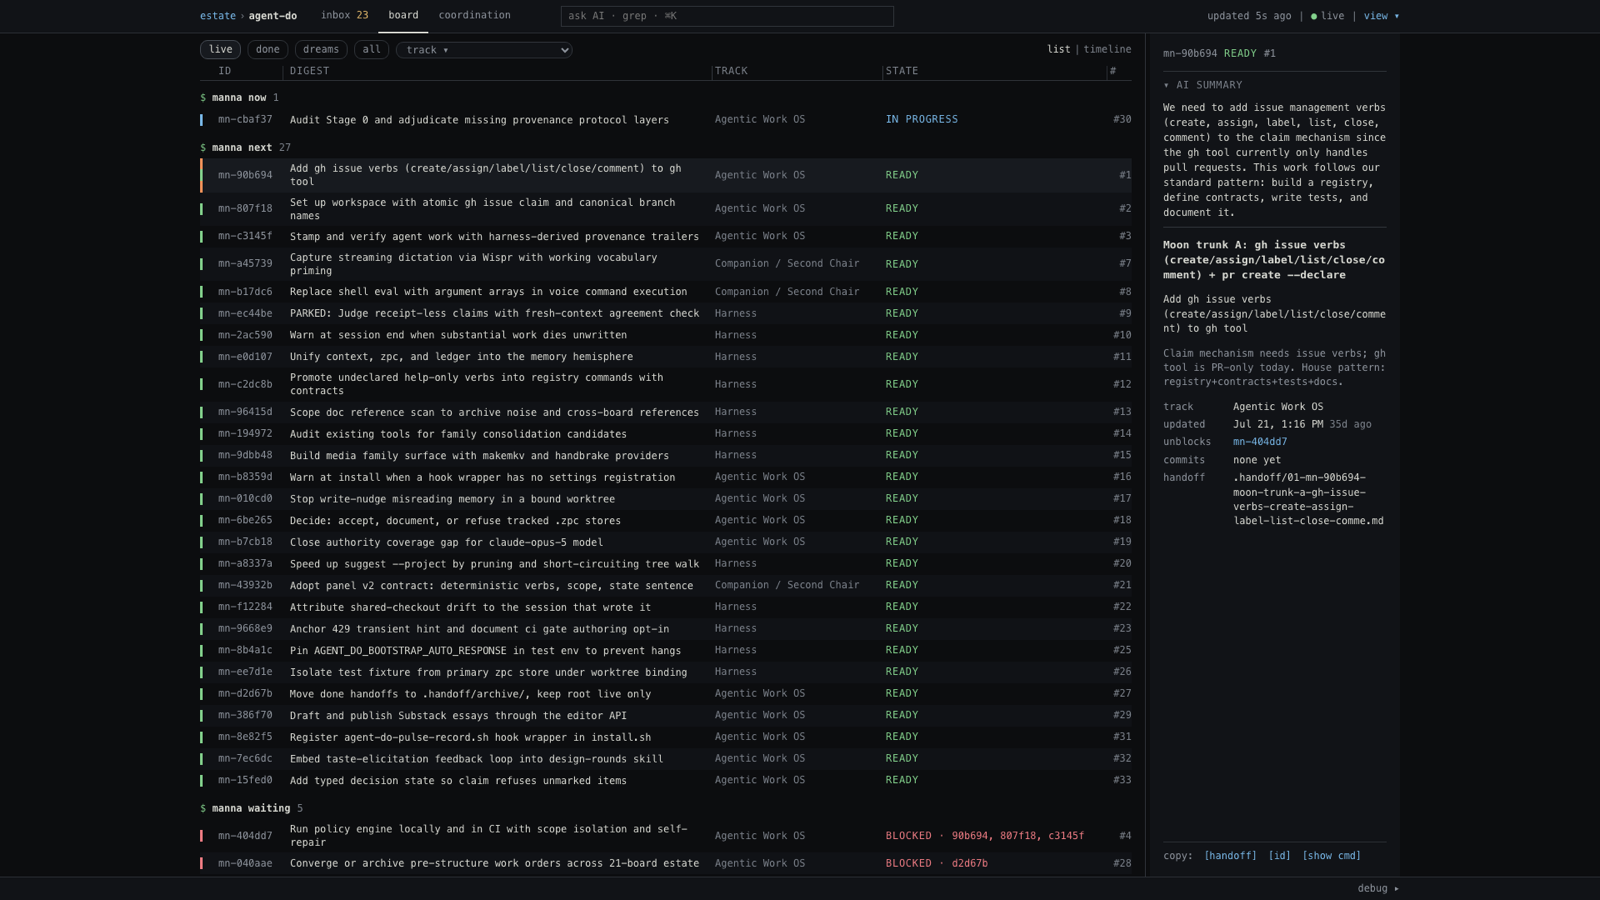
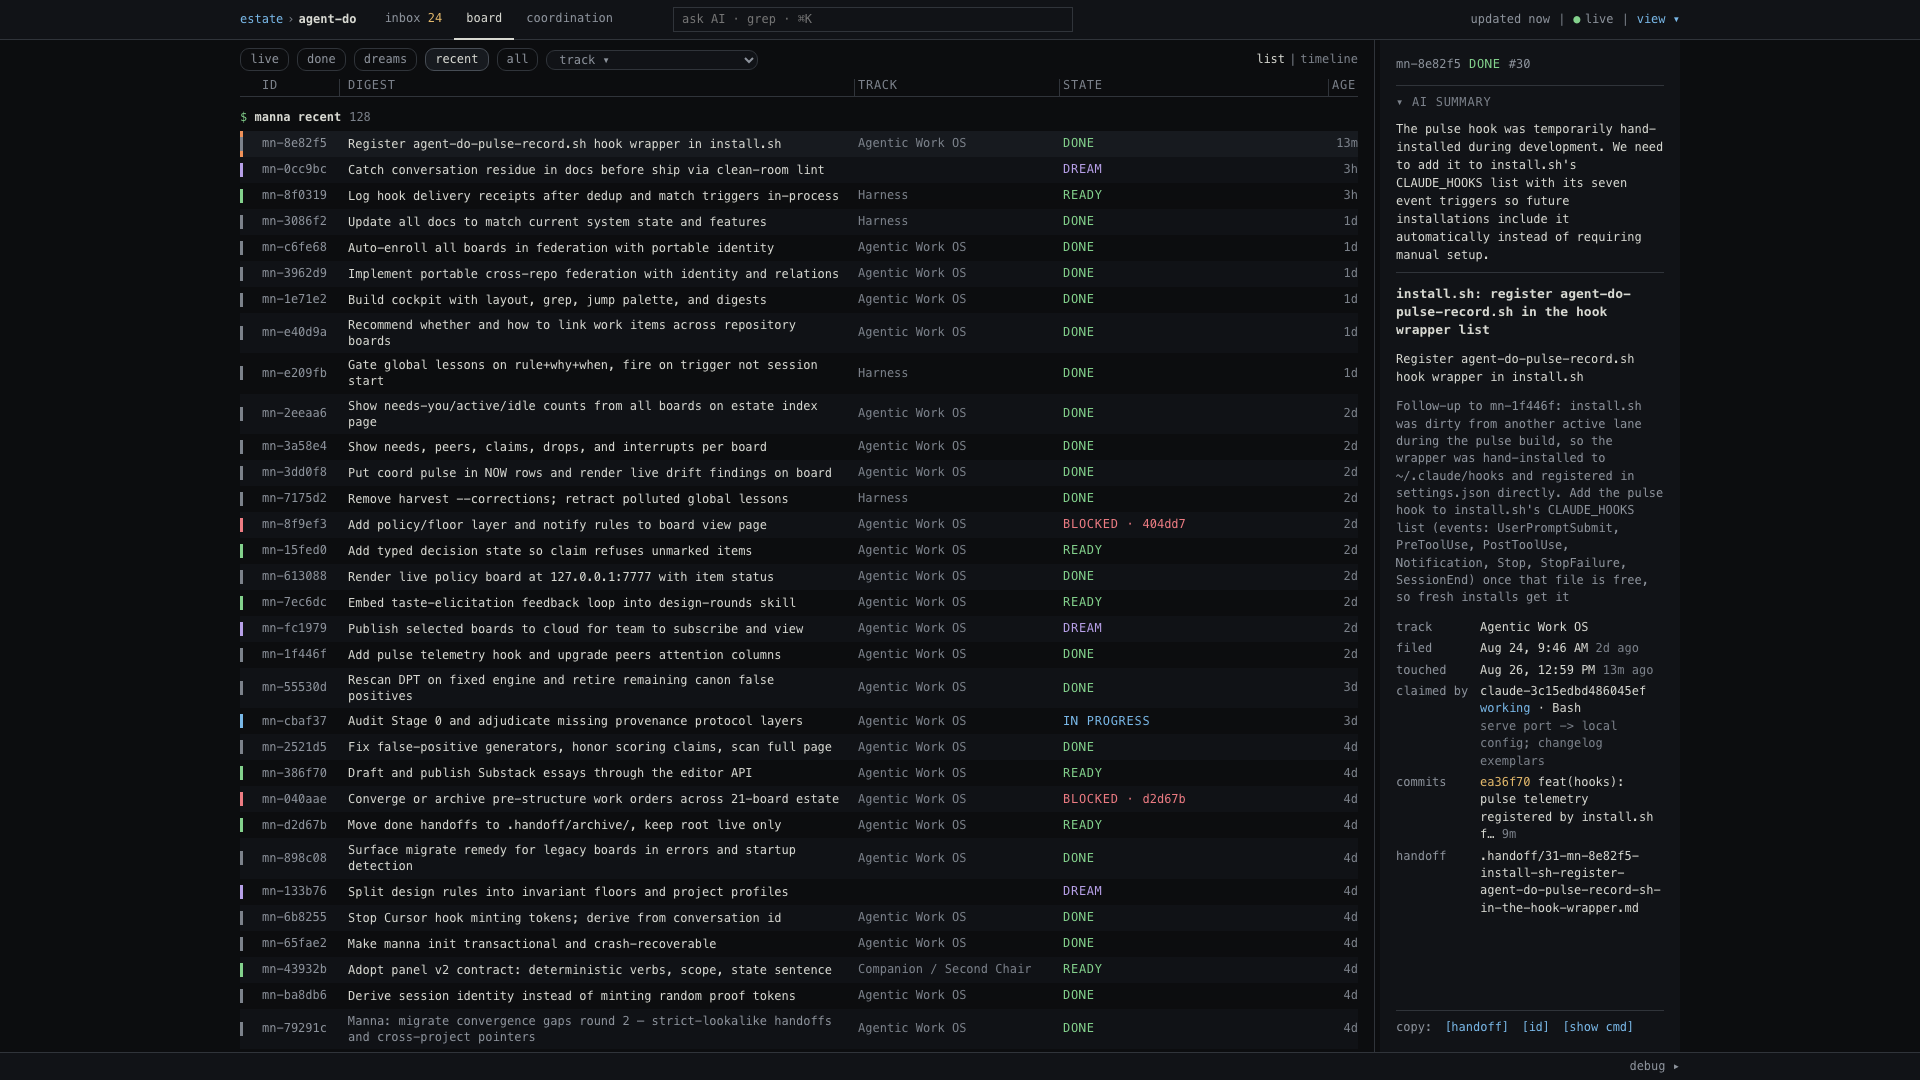
fix(serve): the port is machine-local config, not a shipped constant
First run binds port 0 so the OS hands back a free port, persists the
pick in $AGENT_DO_HOME/manna/serve/config.json, and every later run
reuses it: stable URLs with no collision against whatever another
machine already runs on a memorable number. --port and MANNA_SERVE_PORT
override one invocation. Docs speak of 'a stable local port' instead of
7777. README screenshots retaken at full 1920px and wrapped in links to
their originals, so they are readable and a click zooms.

diff --git a/tools/agent-manna/serve/serve.py b/tools/agent-manna/serve/serve.py
@@ -43,9 +43,12 @@ import digest as digest_lib  # noqa: E402
 STATIC_DIR = SERVE_DIR / "static"
 AGENT_DO = Path(os.environ.get("MANNA_SERVE_AGENT_DO") or (SERVE_DIR.parents[2] / "agent-do"))
 
-# 7777 is a name, not a bound: chosen 2026-08-24 for a port anyone on
-# the estate can remember. Override with --port or MANNA_SERVE_PORT.
-DEFAULT_PORT = 7777
+# The port is machine-local configuration, never a shipped constant: one
+# machine's memorable number is another machine's occupied port. First run
+# asks the OS for a free port (bind to 0), persists the pick in
+# $AGENT_DO_HOME/manna/serve/config.json, and every later run reuses it, so
+# printed URLs and bookmarks stay stable. --port and MANNA_SERVE_PORT
+# override one invocation without rewriting the config.
 DEFAULT_HOST = "127.0.0.1"
 SERVER_NAME = "manna-serve"
 LOOPBACK_HOSTS = frozenset({"127.0.0.1", "localhost", "::1", "0:0:0:0:0:0:0:1"})
@@ -94,6 +97,29 @@ def serve_home() -> Path:
 
 def registry_path() -> Path:
     return serve_home() / "boards.json"
+
+
+def config_path() -> Path:
+    return serve_home() / "config.json"
+
+
+def resolved_port() -> int:
+    """The daemon's stable port: read from config, or pick a free one once."""
+    import socket
+
+    try:
+        port = int(json.loads(config_path().read_text())["port"])
+        if 0 < port < 65536:
+            return port
+    except (OSError, ValueError, KeyError, TypeError):
+        pass
+    with socket.socket(socket.AF_INET, socket.SOCK_STREAM) as probe:
+        probe.bind((DEFAULT_HOST, 0))
+        port = probe.getsockname()[1]
+    tmp = config_path().with_suffix(".json.tmp")
+    tmp.write_text(json.dumps({"port": port}) + "\n")
+    tmp.replace(config_path())
+    return port
 
 
 def identity_path() -> Path:
@@ -879,13 +905,15 @@ Human window onto the board. Read-only. Agents keep `manna context|list|show`.
 
 Running inside a project registers its board with the estate daemon, starts
 the daemon if needed, and prints the project URL:
-  http://127.0.0.1:7777/<project>      this board
-  http://127.0.0.1:7777/               every registered board
+  http://127.0.0.1:<port>/<project>    this board
+  http://127.0.0.1:<port>/             every registered board
 
 Options:
   --open           open the project page in the default browser
   --json           machine-readable result
-  --port N         daemon port (default 7777, or MANNA_SERVE_PORT)
+  --port N         daemon port (default: free port picked on first run and
+                   kept in $AGENT_DO_HOME/manna/serve/config.json; env
+                   override MANNA_SERVE_PORT)
   --host H         bind address (default 127.0.0.1; keep it local)
   --status         is the daemon up, which boards are registered
   --stop           stop the daemon
@@ -901,7 +929,8 @@ def main(argv: list[str]) -> int:
     parser = argparse.ArgumentParser(prog="agent-do manna serve", add_help=False)
     parser.add_argument("--open", action="store_true")
     parser.add_argument("--json", action="store_true")
-    parser.add_argument("--port", type=int, default=int(os.environ.get("MANNA_SERVE_PORT", DEFAULT_PORT)))
+    env_port = os.environ.get("MANNA_SERVE_PORT")
+    parser.add_argument("--port", type=int, default=int(env_port) if env_port else None)
     parser.add_argument("--host", default=DEFAULT_HOST)
     parser.add_argument("--status", action="store_true")
     parser.add_argument("--stop", action="store_true")
@@ -910,6 +939,8 @@ def main(argv: list[str]) -> int:
     parser.add_argument("--foreground", action="store_true")
     parser.add_argument("-h", "--help", action="store_true")
     args = parser.parse_args(argv)
+    if args.port is None:
+        args.port = resolved_port()
 
     if args.help:
         print(HELP, end="")

diff --git a/tests/test_manna_serve.py b/tests/test_manna_serve.py
@@ -144,6 +144,28 @@ class DerivationTests(unittest.TestCase):
         self.assertNotIn("claim_token_hash", payload)
         self.assertNotIn("legacy_migration", payload)
 
+    def test_port_is_picked_free_once_and_kept(self) -> None:
+        # No shipped default port: first resolution asks the OS for a free
+        # one and persists it; every later resolution returns the same.
+        import importlib
+        with tempfile.TemporaryDirectory() as tmp:
+            old = os.environ.get("AGENT_DO_HOME")
+            os.environ["AGENT_DO_HOME"] = tmp
+            try:
+                importlib.reload(serve_lib)
+                first = serve_lib.resolved_port()
+                second = serve_lib.resolved_port()
+                self.assertEqual(first, second)
+                self.assertTrue(0 < first < 65536)
+                on_disk = json.loads((Path(tmp) / "manna" / "serve" / "config.json").read_text())
+                self.assertEqual(on_disk["port"], first)
+            finally:
+                if old is None:
+                    os.environ.pop("AGENT_DO_HOME", None)
+                else:
+                    os.environ["AGENT_DO_HOME"] = old
+                importlib.reload(serve_lib)
+
     def test_rows_carry_both_timestamps_for_the_recent_view(self) -> None:
         # The recent chip sorts on updated_at and the inspector shows
         # filed (created_at) beside touched (updated_at); both must ship.

diff --git a/tools/agent-manna/serve/digest.py b/tools/agent-manna/serve/digest.py
@@ -54,7 +54,7 @@ SYSTEM = (
 
 EXAMPLES = f"""Examples of good digests (each counted, all under {DIGEST_MAX_CHARS} characters):
 - Add gh issue verbs and pr create --declare to the gh tool  (57)
-- Render the board as a live read-only page on port 7777  (51)
+- Render the board as a live read-only page on the local port  (51)
 - Refuse batch promotion to global; one lesson per call  (52)
 - Warn at install when a hook wrapper has no registration  (55)
 - Stop the write-nudge misreading a bound worktree  (49)

diff --git a/CLAUDE.md b/CLAUDE.md
@@ -36,7 +36,7 @@ agent-do is a universal automation CLI for AI agents with 99 specialized tools. 
 ./agent-do resend status example.com   # Check Resend domain DNS/verification state
 ./agent-do spec init                   # Initialize repo-local spec storage
 ./agent-do spec status --change id     # Check one change package
-./agent-do manna serve [--open]        # Human board view: prints http://127.0.0.1:7777/<project>; / indexes every board
+./agent-do manna serve [--open]        # Human board view: prints http://127.0.0.1:<port>/<project>; / indexes every board
 ./agent-do harness inspect --json      # Inspect tools/hooks/docs/tests/state as one harness
 ./agent-do harness contracts validate  # Contracts gate: shape errors + full coverage + concurrency-from-contracts
 ./agent-do harness contracts propose --out .handoff/contracts-inventory-v2.md  # Regenerate lexicon-driven contracts draft
@@ -231,7 +231,7 @@ The board (`.manna/`) is the single backlog; tracked `.handoff/` is the single w
 - **Single-truth rule:** memories and handoff docs point at mn- IDs; they never carry their own checklists.
 - **Pairing gate:** `manna create` generates the item handoff and reverse pointer; `.manna/handoff-order.yaml` owns priority, and `manna sync` derives dense numbered names, blocker gates, and the README index. Never rename a handoff manually. `claim` refuses broken, ignored, or mismatched pairs. Only `handoff seal` authorizes document edits. `manna lint` reports durable board files missing from the Git index as `workflow_tracking` with `git-tracked: no`; `manna reconcile` reports presentation drift and any live claim-bearing Markdown outside `.handoff/` as `workflow_sprawl`.
 - **Federation boundary:** every canonical board tracks `.manna/federation.yaml`; `manna init`, `manna migrate`, bootstrap repair, and inbox creation converge that public identity automatically. Cross-repo relations remain optional and are never issue fields or remote lifecycle gates. Use `manna federation init` only as an idempotent repair or manual backfill; add typed `counterpart|informed_by|depends_on|supersedes` declarations with `relate`; inspect locally with `relations` or derive `resolved|unavailable|missing|ambiguous` through `relations --resolve`. The serve registry is only a cache. Missing boards remain valid citations, `--check` fails only missing or ambiguous targets, and no relation changes claim, block, done, handoff, landed evidence, lint, or reconcile state. Normal clones and worktrees inherit one ID. Use `federation fork --reason <text>` only for an intentional project identity split; it archives inherited declarations and starts empty.
-- **Human window:** `agent-do manna serve` runs one daemon on `127.0.0.1:7777`; `/` indexes every registered board with effective counts that link to the section they count, `/<project>` is the cockpit (inbox of asks with verb buttons · board with digests, filters, and a timeline mode · coordination with pulse). It always prints the project URL, so when the user asks to see the board, run it and hand over the link. Agents never read from it; the board's own commands remain the contract. Its only writes are reconcile-by-click: a button POSTs one action and the daemon runs that one manna verb under its own pinned identity — the page never edits a file.
+- **Human window:** `agent-do manna serve` runs one daemon on a stable loopback port (picked free on first run, kept in `$AGENT_DO_HOME/manna/serve/config.json`; override with `--port`/`MANNA_SERVE_PORT`); `/` indexes every registered board with effective counts that link to the section they count, `/<project>` is the cockpit (inbox of asks with verb buttons · board with digests, filters, and a timeline mode · coordination with pulse). It always prints the project URL, so when the user asks to see the board, run it and hand over the link. Agents never read from it; the board's own commands remain the contract. Its only writes are reconcile-by-click: a button POSTs one action and the daemon runs that one manna verb under its own pinned identity — the page never edits a file.
 - **Ownership gate:** Claude hooks export `CLAUDE_SESSION_ID`, Cursor persists its conversation id through the same input, and Codex supplies its opaque thread id; manna derives the ownership proof under the machine-local key (`~/.agent-do/manna/session-identity.key`), so a restarted process re-derives the same proof and keeps lifecycle authority over its claims. Scripted lanes may still pin `MANNA_SESSION_ID` plus secret `MANNA_SESSION_TOKEN` (explicit pins win). The board stores only the proof digest; a public owner label alone has no lifecycle authority. A landed orphaned claim — trailer commits prove the work, the owner can no longer present its proof, and the owning session is not active — is released and closed by `manna reconcile --fix`; the evidence authorizes, never the requester.
 - **This project's vocabulary** (data, not grammar): track rows mn-b7a0cc "Agentic Work OS" and mn-69368a "Companion / Second Chair"; item titles keep their program names ("Moon trunk A" through "Moon trunk G", "Companion: ...", "Charter Law N: ...", "Harness: ..."). The old title-prefix grammar built from those names was interim scaffolding; the typed fields replaced it, and prefixes surviving in titles are display only.
 

diff --git a/README.md b/README.md
@@ -46,7 +46,7 @@ The worker's reach stops at the edge of the human's desktop. Commands that drive
 
 A worker holding good tools still cannot feel the others in the room, and several agents routinely work one repository at once. So the workshop keeps a sign-in sheet under the repository's git directory, and it verifies the sheet against the operating system: a session counts as present only if its process still exists and that process's start time matches the one recorded, which is why a recycled process id can never wear a dead worker's identity. A session unseen for 48 hours turns idle; a dead one is marked dead and swept after 24 hours. Workers declare a role (builder, auditor, researcher, overseer), a goal, and the paths they own; two builders whose paths overlap are both interrupted, with the overlapping paths named, and an auditor stepping onto a builder's paths sends a courtesy notice. Handoffs between live workers are pointers to files on the sheet; no mailbox exists. The sheet also carries a pulse fed by the host program's own events: whether a worker is working, waiting on the human, failed, or finished, and what it last touched.
 
-<p align="center"><img src="assets/manna-serve-coord.png" alt="The coordination sheet: liveness-verified workers with focus and holdings, a selected worker in the inspector, and live path claims" width="900"></p>
+<p align="center"><a href="assets/manna-serve-coord.png"><img src="assets/manna-serve-coord.png" alt="The coordination sheet: liveness-verified workers with focus and holdings, a selected worker in the inspector, and live path claims" width="900"></a></p>
 
 ## The job list on the wall (manna)
 
@@ -72,9 +72,9 @@ What a shift leaves behind is what the next shift trusts. A commit that advances
 
 ## The owner's window
 
-One human owns the workshop. The owner converts dreams into items (a worker who tries to claim a dream is refused with exit code 2, the code this system uses for "stopped on purpose, needs a human," and nothing is written) and rules on the questions the machine flags, looking in through `manna serve`: a page on `127.0.0.1:7777`, reachable only from this machine, that workers are handed the address of and never read from. Its inbox lists every ask in one shape, who is asking and what for, with the verb the owner performs as a button that runs exactly that one board command.
+One human owns the workshop. The owner converts dreams into items (a worker who tries to claim a dream is refused with exit code 2, the code this system uses for "stopped on purpose, needs a human," and nothing is written) and rules on the questions the machine flags, looking in through `manna serve`: a page on a loopback port only this machine can reach, picked free on first run and kept thereafter so the address stays stable, that workers are handed and never read from. Its inbox lists every ask in one shape, who is asking and what for, with the verb the owner performs as a button that runs exactly that one board command.
 
-<p align="center"><img src="assets/manna-serve-board.png" alt="The owner's window: the job list with one-line digests, an item selected, its summary and receipts in the inspector" width="900"></p>
+<p align="center"><a href="assets/manna-serve-board.png"><img src="assets/manna-serve-board.png" alt="The owner's window: the job list with one-line digests, an item selected, its summary and receipts in the inspector" width="900"></a></p>
 
 ## The one thing a human does
 
@@ -86,7 +86,7 @@ cd agent-do
 ./install.sh
 ```
 
-It needs GNU Bash 4.4 or newer (macOS ships 3.2; `brew install bash` first), Python 3.10 or newer, Node 18 or newer for the browser tool, and Rust if you want the work board built locally. The installer symlinks the command, installs the foreman's scripts, asks before registering them (registration is what makes them fire; an unregistered hook is inert), and runs a health check. From then on the human types nothing. Workers pick up the tools and run the shop. The one thing a human may be handed back is a link to the job list on `127.0.0.1:7777`, where the shift can be watched.
+It needs GNU Bash 4.4 or newer (macOS ships 3.2; `brew install bash` first), Python 3.10 or newer, Node 18 or newer for the browser tool, and Rust if you want the work board built locally. The installer symlinks the command, installs the foreman's scripts, asks before registering them (registration is what makes them fire; an unregistered hook is inert), and runs a health check. From then on the human types nothing. Workers pick up the tools and run the shop. The one thing a human may be handed back is a link to the job list, where the shift can be watched.
 
 ## Why it holds together
 

diff --git a/CHANGELOG.md b/CHANGELOG.md
@@ -2,6 +2,7 @@
 
 ## Unreleased
 
+- `manna serve` no longer assumes port 7777: the first run asks the OS for a free port and keeps it in `$AGENT_DO_HOME/manna/serve/config.json`, so printed URLs stay stable without colliding with whatever another machine already runs there; `--port` and `MANNA_SERVE_PORT` override one invocation. README screenshots retaken at full resolution and linked to their originals so a click zooms.
 - README rewritten as one essay for the human reader (the workshop, the vessel, the dharma of receipts): every institution presented with its evidence, no agent commands beyond the install, logo plus cockpit and coordination screenshots placed in the sections they depict. Chosen from fifteen candidates across three clean-room rounds.
 - `manna serve`: a `recent` chip on the board sheet renders every entry (items, dreams, done, blocked) as one flat list sorted by last activity with an age column, linkable at `#board/recent`; the inspector now shows `filed` (created) beside `touched` (updated) for every item.
 - UserPromptSubmit hooks no longer time out under load: the prompt router invokes the coord tool script directly instead of paying the dispatcher's per-call interpreter tax twice, defers the provider SDK import until an AI routing call actually happens, and the four UserPromptSubmit hook ceilings rise 5s→10s in the registration spec (lesson les-2a750a).

diff --git a/docs/TOOLS.md b/docs/TOOLS.md
@@ -2544,7 +2544,7 @@ Concurrency: `write`
 - `dream`: File an idea spark on the nearest board or the global inbox
 - `lint`: Check board grammar and strict handoff linkage; findings exit 1
 - `reconcile`: Detect board, handoff, and workflow-sprawl drift; --fix applies safe repairs
-- `serve`: Read-only human board view on a fixed local port (7777); every registered board indexed at /, this project at /\<name>; always prints the URL
+- `serve`: Read-only human board view on a stable local port (picked free on first run, kept in local config); every registered board indexed at /, this project at /\<name>; always prints the URL
 
 **Examples**
 

diff --git a/ARCHITECTURE.md b/ARCHITECTURE.md
@@ -435,7 +435,7 @@ with no claim.
 ### The human window (`manna serve`)
 
 `agent-do manna serve` is the read cockpit for humans: one daemon on
-`127.0.0.1:7777` (Python, `tools/agent-manna/serve/`, beside the Rust core)
+a stable loopback port, picked free on first run and kept in `$AGENT_DO_HOME/manna/serve/config.json` (Python, `tools/agent-manna/serve/`, beside the Rust core)
 renders every registered board at `/` — effective counts per board, each number
 linking to the exact section it counts — and each project at `/<name>` with
 three sheets (inbox · board · coordination), an inspector, a ⌘K jump/ask bar,
